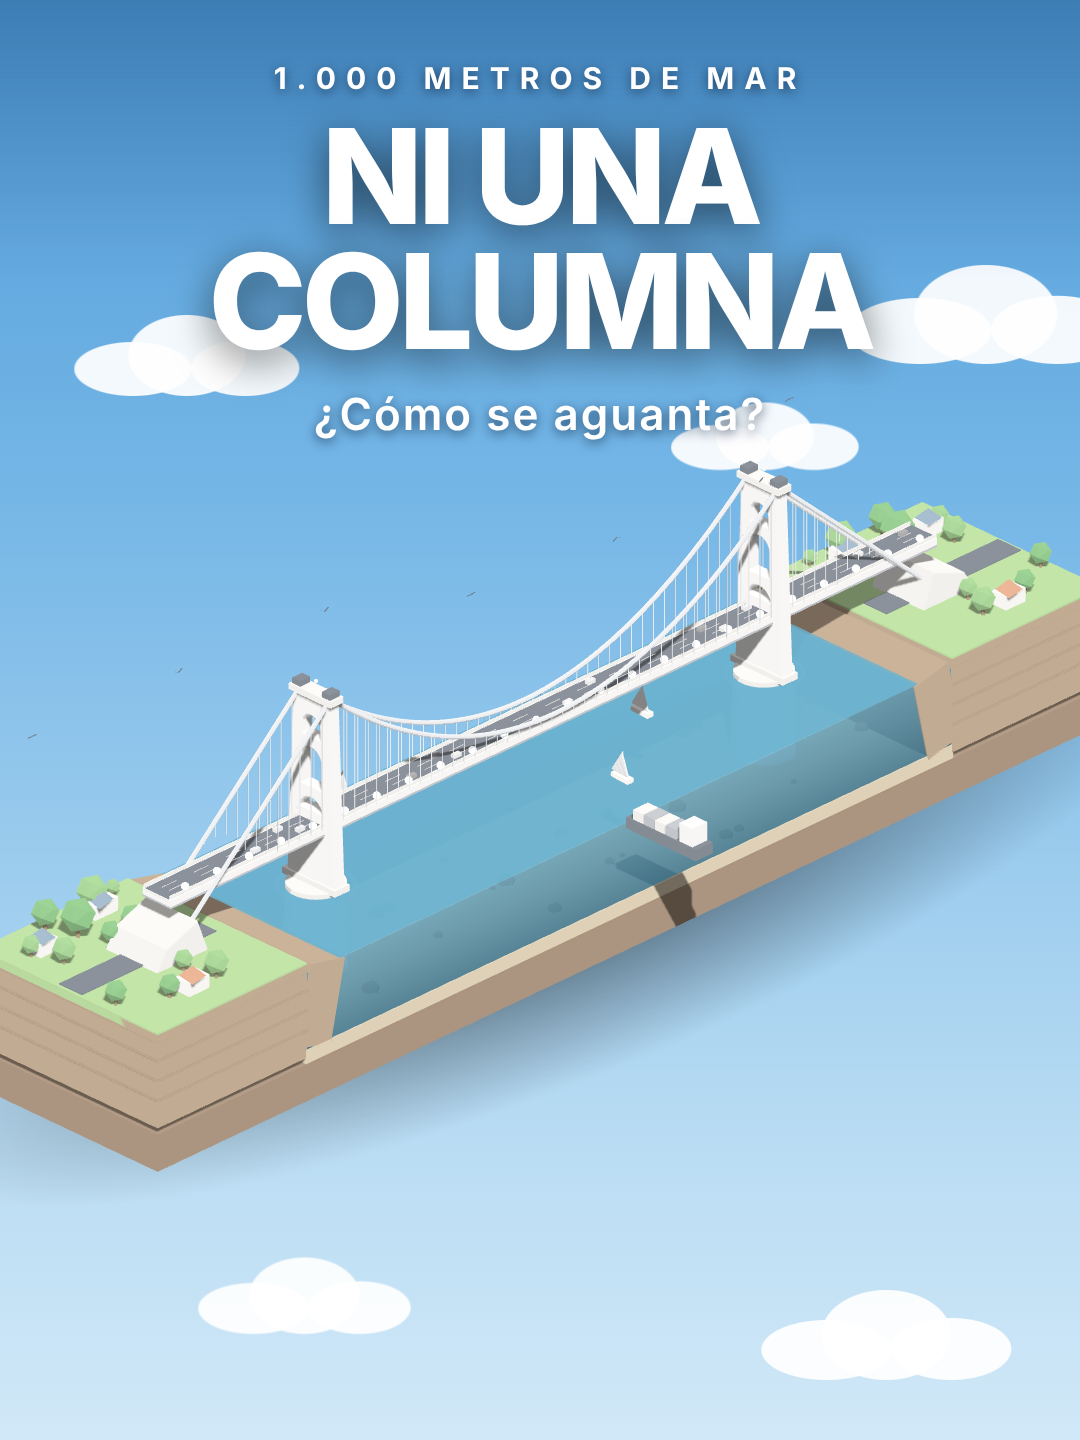
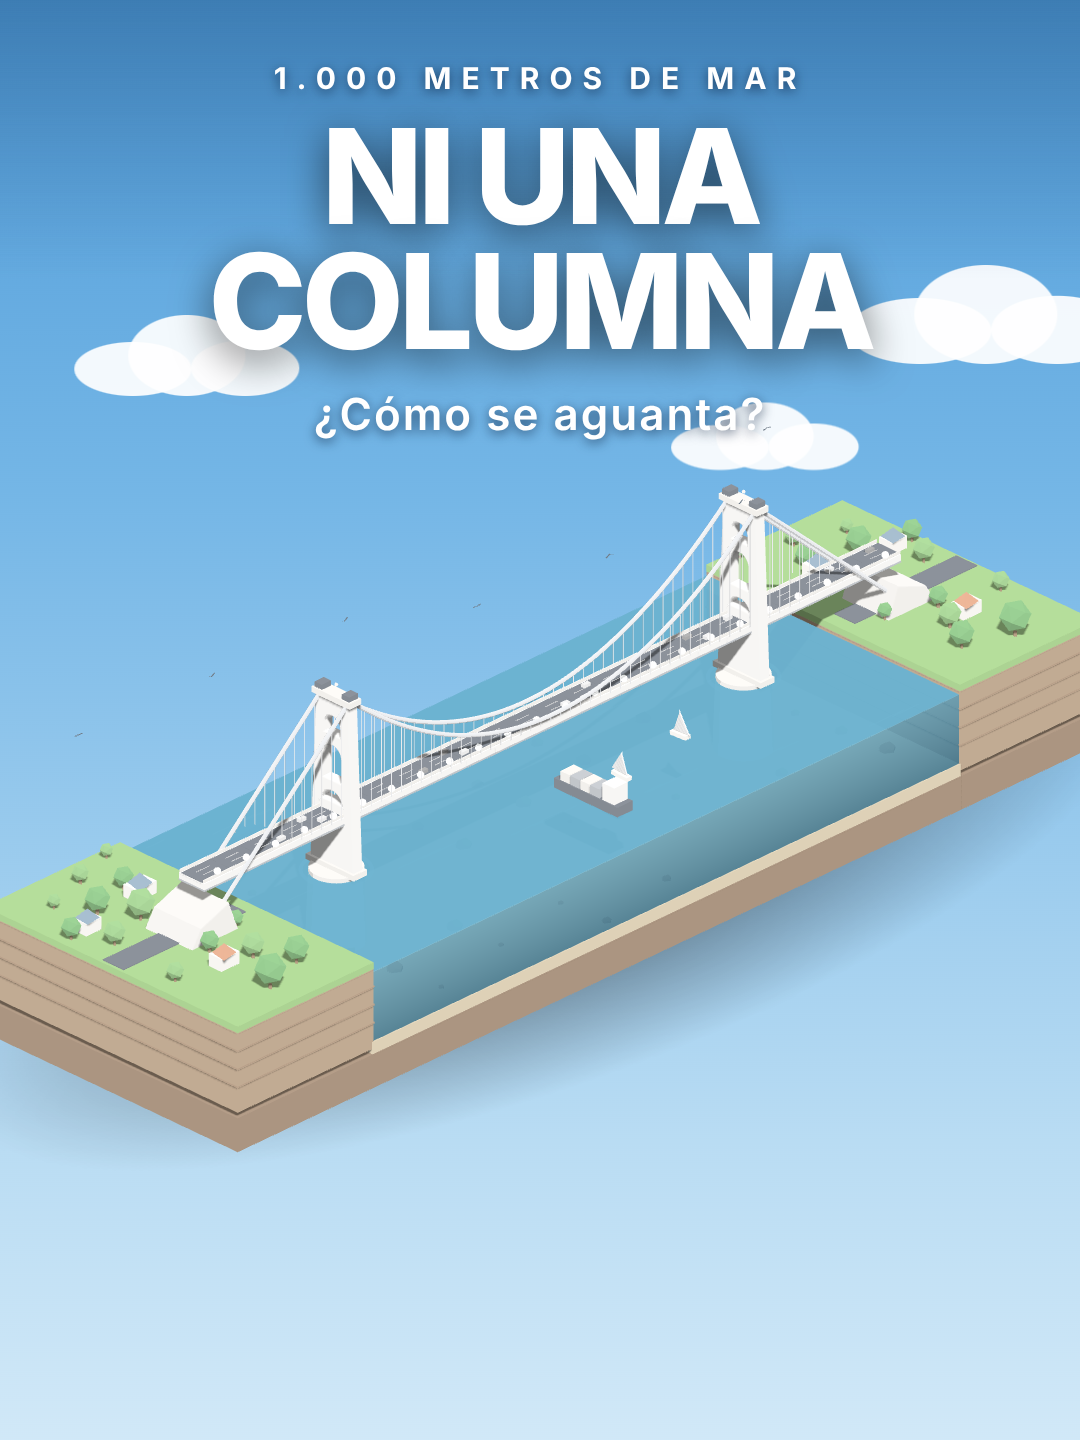
puente v3: arregla césped (z-fighting), barcos dentro del agua en bucle, más agua, dron visible
Claude-Session: https://claude.ai/code/session_01FgZK386kKeQpy1Cb9CVWWu

Changed region(s): [[0.0, 0.3125, 1.0, 0.8125], [0.7028, 0.875, 0.9472, 0.9688], [0.1833, 0.875, 0.3972, 0.9375]]

diff --git a/quiz-video/animado/puente/iso.js b/quiz-video/animado/puente/iso.js
@@ -8,7 +8,7 @@
   document.getElementById('gl').appendChild(renderer.domElement);
   const scene = new THREE.Scene();
   const FR = 900;                                   // mitad de la altura visible (zoom)
-  const cam = new THREE.OrthographicCamera(-FR * W / H, FR * W / H, FR, -FR, -6000, 6000);
+  const cam = new THREE.OrthographicCamera(-FR * W / H, FR * W / H, FR, -FR, 1, 4000);
   scene.add(new THREE.HemisphereLight(0xe6e6e6, 0x4a4a4a, 0.5));
   const sol = new THREE.DirectionalLight(0xffffff, 1.05); sol.position.set(-700, 1300, 900); sol.castShadow = true;
   sol.shadow.mapSize.set(2048, 2048); Object.assign(sol.shadow.camera, { left: -1300, right: 1300, top: 1000, bottom: -1000, near: 10, far: 4000 }); sol.shadow.radius = 2; sol.shadow.bias = -0.0005;
@@ -21,20 +21,19 @@
   const base = new THREE.Group(); scene.add(base);
 
   // ---------------- medidas
-  const SPAN = 900, TX = SPAN / 2, TH = 300, DECK = 96, LEN = 1300, D = 360, PROF = 130, LAND = 300;
+  const SPAN = 900, TX = SPAN / 2, TH = 300, DECK = 96, LEN = 1300, D = 560, PROF = 130, LAND = 300;
   const ANCLA = LEN / 2 + 120;
-  const C = { blanco: 0xf3f1ed, hueso: 0xe7e3dc, gris: 0x8d939b, pizarra: 0x3d434c, arena: 0xbfa77c, roca: 0x8c6a4c, rocaO: 0x6b4f39, hierba: 0x7fb85b, agua: 0x3f9ccc, acento: 0xef5b3b };
+  const C = { blanco: 0xf3f1ed, hueso: 0xe7e3dc, gris: 0x8d939b, pizarra: 0x3d434c, arena: 0xbfa77c, roca: 0x8c6a4c, rocaO: 0x6b4f39, hierba: 0x6cab4c, agua: 0x3f9ccc, acento: 0xef5b3b };
 
   // ---------------- maqueta: bloques de tierra con capas, fondo marino y agua
   for (const s of [-1, 1]) {
     const cx = s * (LEN / 2 + LAND / 2 - 2);
     base.add(caja(LAND, 60, D, M(C.rocaO), cx, -PROF - 50, 0));
-    base.add(caja(LAND, PROF + 20, D, M(C.roca), cx, -PROF / 2 - 10 + 10, 0));
-    base.add(caja(LAND, 14, D, M(C.hierba), cx, 6, 0));
-    for (const y of [-30, -62, -94]) base.add(caja(LAND + 1, 2, D + 1, M(0x7d5c42), cx, y, 0));
+    base.add(caja(LAND, PROF + 11, D, M(C.roca), cx, -PROF / 2 - 4.5, 0));
+    base.add(caja(LAND + 0.6, 12, D + 0.6, M(C.hierba), cx, 7, 0));
+    for (const y of [-30, -62, -94]) base.add(caja(LAND + 3, 2, D + 3, M(0x7d5c42), cx, y, 0));
     base.add(caja(LAND - 30, 2, 46, M(C.pizarra, { roughness: 0.9 }), cx + s * 10, 14, 0));
     // talud hacia el agua
-    const t = S(new THREE.Mesh(new THREE.BoxGeometry(70, PROF, D), M(C.roca))); t.position.set(s * (LEN / 2 - 30), -PROF / 2 + 2, 0); t.rotation.z = s * 0.22; base.add(t);
     // árboles discretos
     for (let k = 0; k < 16; k++) {
       const tr = new THREE.Group(); const h = 30 + (k % 3) * 10;
@@ -142,6 +141,7 @@
     g.add(p1, p2); g.userData = { p1, p2, k }; g.rotation.x = -Math.PI / 2; base.add(g); return g; });
   // ================= ESTADO DE OBRA (0 = sin construir, 1 = terminado) =================
   const ACC = 0x4ea3ff;
+  let DURV = 114.14;
   const st = { t: 0, cim: 1, tor: 1, pil: 0, pas: 0, rueda: 0, ruedaOn: 0, hilo: 1, anc: 1, pen: 1, dov: 1, asf: 1, luz: 0, coches: 0, fza: 0, vien: 0, agua: 1, barcoZ: 260, fan: 0 };
   // cable piloto + dron
   const curva = (z, dy = 0) => new THREE.CatmullRomCurve3(Array.from({ length: 201 }, (_, i) => { const x = -ANCLA + 2 * ANCLA * i / 200; return new THREE.Vector3(x, yC(x) + dy, z); }));
@@ -149,7 +149,7 @@
   const piloto = new THREE.Mesh(pilGeo, new THREE.MeshBasicMaterial({ color: 0xffffff })); base.add(piloto);
   const dron = new THREE.Group(); dron.add(caja(10, 3, 10, M(C.pizarra), 0, 0, 0));
   const rotores = []; for (const [a, b] of [[-8, -8], [8, -8], [-8, 8], [8, 8]]) { const r = new THREE.Mesh(new THREE.CylinderGeometry(5, 5, 0.6, 16), new THREE.MeshBasicMaterial({ color: 0xffffff, transparent: true, opacity: 0.6 })); r.position.set(a, 2.5, b); dron.add(r); rotores.push(r); }
-  base.add(dron);
+  dron.scale.setScalar(3); base.add(dron);
   // pasarela (barandillas siguiendo el cable) y rueda de hilado
   const pasMat = new THREE.MeshBasicMaterial({ color: 0xbfc3c8, transparent: true, opacity: 0 });
   const pasarela = new THREE.Group(); for (const z of [-38, -22, 22, 38]) pasarela.add(new THREE.Mesh(new THREE.TubeGeometry(curva(z, -4), 300, 0.6, 4, false), pasMat)); base.add(pasarela);
@@ -205,8 +205,10 @@
     puntos.forEach((p, k) => { const s = k % 2 ? 1 : -1, z = (k >> 1) % 2 ? 30 : -30; const u = ((t * 0.35 + (k >> 2) / 7) % 1); const x = s * u * ANCLA; p.position.set(x, yC(x) + 1, z); p.visible = st.fza > 0.01; p.material.opacity = st.fza * Math.sin(Math.PI * u); });
     fan.material.opacity = st.fan * 0.35; fan.visible = st.fan > 0.01;
     aguaMat.opacity = aguaOp * st.agua; supMat.opacity = surf * st.agua; olas.visible = st.agua > 0.5;
-    barco.position.z = st.barcoZ;
-    veleros.forEach(g => { const { v, k } = g.userData; g.position.set(g.position.x, -3 + Math.sin(t * 2 + k) * 1.2, ((t * 14 * v + k * 120) % (D - 50)) - (D - 50) / 2); g.rotation.z = Math.sin(t * 1.6 + k) * 0.06; g.visible = st.agua > 0.5; });
+    const ZR = D / 2 - 40, borde = (z) => cl((ZR - Math.abs(z)) / 45);
+    const fade = (g, a) => { g.traverse(m => { if (m.material) { m.material.transparent = true; m.material.opacity = a; } }); g.visible = a > 0.01 && (g === barco || st.agua > 0.5); };
+    { const z = ZR - ((t * (4 * ZR / DURV) + ZR - 14 * (4 * ZR / DURV)) % (2 * ZR) + 2 * ZR) % (2 * ZR); barco.position.z = z; fade(barco, borde(z)); }
+    veleros.forEach(g => { const { k } = g.userData; const vz = (k + 2) * 2 * ZR / DURV; const z = ((t * vz + k * 170) % (2 * ZR)) - ZR; g.position.set(g.position.x, -3 + Math.sin(t * 2 + k) * 1.2, k % 2 ? -z : z); g.rotation.y = k % 2 ? -Math.PI / 2 : Math.PI / 2; g.rotation.z = Math.sin(t * 1.6 + k) * 0.06; fade(g, borde(z)); });
     pajaros.forEach(g => { const { p1, p2, k } = g.userData; const u = ((t * 0.045 + k * 0.137) % 1); g.position.set(-900 + u * 1800, 360 + (k % 3) * 22 + Math.sin(t + k) * 6, -120 + (k * 47) % 240); const f = Math.sin(t * 9 + k) * 0.6; p1.rotation.y = f; p2.rotation.y = -f; });
     sol.intensity = 1.05 - 0.3 * st.luz; hemi.intensity = 0.5 - 0.12 * st.luz;
   }
@@ -220,6 +222,6 @@
   function pon(px, py, pz, tx, ty, tz, zoom) {
     cam.position.set(px, py, pz); cam.lookAt(tx, ty, tz); cam.zoom = zoom; cam.updateProjectionMatrix();
   }
-  window.ESC = { st, aplica, resalta, hueR, renderer, scene, cam, base, agua, aguaMat, sup, olas, cimientos, torres, huecos, dovelas, cables, pendolas, anclajes, barco, proyecta, pon,
+  window.ESC = { setDur(d) { DURV = d; }, st, aplica, resalta, hueR, renderer, scene, cam, base, agua, aguaMat, sup, olas, cimientos, torres, huecos, dovelas, cables, pendolas, anclajes, barco, proyecta, pon,
     TX, TH, DECK, PROF, ANCLA, LEN, D, yC, C, render() { renderer.render(scene, cam); } };
 })();

diff --git a/quiz-video/animado/puente/index.html b/quiz-video/animado/puente/index.html
@@ -33,7 +33,7 @@ html,body{width:1080px;height:1920px;overflow:hidden;background:#15181d}
 </style></head>
 <body>
 <div id="root" data-composition-id="main" data-start="0" data-duration="114.141" data-width="1080" data-height="1920">
-  <div id="nubes"><div class="nube" id="nb0" style="left:60px;top:560px;transform:scale(0.9)"><i></i><i></i><i></i></div><div class="nube" id="nb1" style="left:640px;top:640px;transform:scale(0.75)"><i></i><i></i><i></i></div><div class="nube" id="nb2" style="left:860px;top:520px;transform:scale(1.1)"><i></i><i></i><i></i></div><div class="nube" id="nb3" style="left:180px;top:1500px;transform:scale(0.85)"><i></i><i></i><i></i></div><div class="nube" id="nb4" style="left:760px;top:1540px;transform:scale(1.0)"><i></i><i></i><i></i></div></div>
+  <div id="nubes"><div class="nube" id="nb0" style="left:60px;top:560px;transform:scale(0.9)"><i></i><i></i><i></i></div><div class="nube" id="nb1" style="left:640px;top:640px;transform:scale(0.75)"><i></i><i></i><i></i></div><div class="nube" id="nb2" style="left:860px;top:520px;transform:scale(1.1)"><i></i><i></i><i></i></div></div>
   <div id="gl"></div>
   <div id="topsombra"></div><div id="grano"></div>
   <svg id="lineas" width="1080" height="1920"></svg>
@@ -44,11 +44,11 @@ html,body{width:1080px;height:1920px;overflow:hidden;background:#15181d}
 </div>
 <script src="iso.js"></script>
 <script>
-const E = window.ESC;
+const E = window.ESC; E.setDur(114.141);
 const R = { cim: E.resalta(E.cimientos), arc: E.hueR, anc: E.resalta(E.anclajes), pen: E.resalta(E.pendolas), cab: E.resalta(E.cables) };
 Object.values(R).forEach(r => r.set(0));
 const HL = { cim:0, arc:0, anc:0, pen:0, cab:0 };
-const C = { tx:0, ty:90, tz:0, dx:-1, dy:0.76, dz:1, z:0.66 };
+const C = { tx:0, ty:90, tz:0, dx:-1, dy:0.76, dz:1, z:0.6 };
 const LABS = [], LV = {};
 const SVGL = document.getElementById("lineas");
 function frame() {
@@ -69,26 +69,24 @@ function frame() {
 const tl = gsap.timeline({ paused: true, onUpdate: frame });
 tl.to(E.st, {t:114.14, duration:114.14, ease:"none"}, 0);
 Object.assign(E.st, {luz:1, coches:1});
-tl.to(C, {tx:0, ty:80, tz:0, dx:-1, dy:0.72, dz:1.05, z:0.72, duration:7.89, ease:"sine.inOut"}, 0.00);
+tl.to(C, {tx:0, ty:80, tz:0, dx:-1, dy:0.72, dz:1.05, z:0.66, duration:7.89, ease:"sine.inOut"}, 0.00);
 tl.set("#d1", {opacity:0}, 0); tl.fromTo("#d1", {opacity:0, y:30, letterSpacing:"8px"}, {opacity:1, y:0, letterSpacing:"0px", duration:0.6, ease:"power3.out", immediateRender:false}, 0.00); tl.to("#d1", {opacity:0, y:-20, duration:0.3}, 5.76);
 tl.set("#d1", {opacity:1, y:0, letterSpacing:"0px"}, 0);
 tl.set("#d2", {opacity:0}, 0); tl.fromTo("#d2", {opacity:0, y:30, letterSpacing:"8px"}, {opacity:1, y:0, letterSpacing:"0px", duration:0.6, ease:"power3.out", immediateRender:false}, 6.83); tl.to("#d2", {opacity:0, y:-20, duration:0.3}, 8.09);
 tl.to(E.st, {luz:0, coches:0, duration:0.60, ease:"power2.inOut"}, 7.93);
 tl.to(C, {tx:0, ty:-40, tz:60, dx:-0.55, dy:0.42, dz:1, z:1.35, duration:1.00, ease:"power2.inOut"}, 8.03);
 tl.to(E.st, {agua:0.45, duration:0.60, ease:"power2.inOut"}, 8.43);
-tl.to(E.st, {barcoZ:-260, duration:3.50, ease:"none"}, 12.01);
 LABS.push({i:3, p:[0,-120,120], lx:70, ly:1250});
 tl.fromTo(LV, {l3:0}, {l3:1, duration:0.45, ease:"power2.out", immediateRender:false}, 8.87); tl.to(LV, {l3:0, duration:0.3}, 9.96);
 LV.l3 = 0;
 LABS.push({i:4, p:[-260,-6,140], lx:70, ly:1250});
 tl.fromTo(LV, {l4:0}, {l4:1, duration:0.45, ease:"power2.out", immediateRender:false}, 9.96); tl.to(LV, {l4:0, duration:0.3}, 12.91);
 LV.l4 = 0;
-LABS.push({i:5, p:[0,30,120], lx:560, ly:1300});
+LABS.push({i:5, p:[0,20,0], lx:560, ly:1300});
 tl.fromTo(LV, {l5:0}, {l5:1, duration:0.45, ease:"power2.out", immediateRender:false}, 12.91); tl.to(LV, {l5:0, duration:0.3}, 14.32);
 LV.l5 = 0;
 tl.to(E.st, {agua:1, duration:0.50, ease:"power2.inOut"}, 14.12);
 tl.to(C, {tx:0, ty:40, tz:0, dx:-1, dy:0.6, dz:1.1, z:0.95, duration:1.00, ease:"power2.inOut"}, 14.16);
-tl.set(E.st, {barcoZ:260}, 14.56);
 tl.to(E.st, {fan:1, duration:0.50, ease:"power2.inOut"}, 14.34);
 tl.to(E.st, {fan:0, duration:0.40, ease:"power2.inOut"}, 17.25);
 tl.set("#tacha", {opacity:0}, 0); tl.fromTo("#tacha", {opacity:0, scale:2}, {opacity:1, scale:1, duration:0.3, ease:"back.out(2)", immediateRender:false}, 16.75); tl.to("#tacha", {opacity:0, duration:0.3}, 17.55);
@@ -178,7 +176,7 @@ tl.to("#viento", {opacity:1, duration:0.4}, 99.81); tl.fromTo("#viento i", {x:-7
 LABS.push({i:18, p:[0,96,30], lx:560, ly:1300});
 tl.fromTo(LV, {l18:0}, {l18:1, duration:0.45, ease:"power2.out", immediateRender:false}, 102.00); tl.to(LV, {l18:0, duration:0.3}, 106.30);
 LV.l18 = 0;
-tl.to(C, {tx:0, ty:90, tz:0, dx:-1, dy:0.76, dz:1, z:0.66, duration:7.60, ease:"sine.inOut"}, 106.04);
+tl.to(C, {tx:0, ty:90, tz:0, dx:-1, dy:0.76, dz:1, z:0.6, duration:7.60, ease:"sine.inOut"}, 106.04);
 tl.set("#d19", {opacity:0}, 0); tl.fromTo("#d19", {opacity:0, y:30, letterSpacing:"8px"}, {opacity:1, y:0, letterSpacing:"0px", duration:0.6, ease:"power3.out", immediateRender:false}, 111.17); tl.to("#d19", {opacity:0, y:-20, duration:0.3}, 112.94);
 tl.fromTo("#d1", {opacity:0, y:30}, {opacity:1, y:0, duration:0.6, ease:"power3.out", immediateRender:false}, 113.14);
 tl.set("#pasos", {opacity:0, y:40}, 0); tl.to("#pasos", {opacity:1, y:0, duration:0.6, ease:"power3.out"}, 21.54); tl.to("#pasos", {opacity:0, y:40, duration:0.5}, 100.47);
@@ -206,8 +204,6 @@ tl.to("#pfill", {width:900, duration:0.6, ease:"power2.inOut"}, 94.41);
 tl.fromTo("#nb0", {x:0}, {x:70, duration:57.07, ease:"sine.inOut", yoyo:true, repeat:1, immediateRender:false}, 0);
 tl.fromTo("#nb1", {x:0}, {x:-70, duration:57.07, ease:"sine.inOut", yoyo:true, repeat:1, immediateRender:false}, 0);
 tl.fromTo("#nb2", {x:0}, {x:70, duration:57.07, ease:"sine.inOut", yoyo:true, repeat:1, immediateRender:false}, 0);
-tl.fromTo("#nb3", {x:0}, {x:-70, duration:57.07, ease:"sine.inOut", yoyo:true, repeat:1, immediateRender:false}, 0);
-tl.fromTo("#nb4", {x:0}, {x:70, duration:57.07, ease:"sine.inOut", yoyo:true, repeat:1, immediateRender:false}, 0);
 tl.to("#w0_0 .hl", {opacity:1, duration:0.06}, 0.50);
 tl.to("#w0_0", {color:"#ffffff", duration:0.06}, 0.50);
 tl.to("#w0_1", {color:"#ffffff", duration:0.06}, 0.73);

diff --git a/quiz-video/animado/puente/gen.py b/quiz-video/animado/puente/gen.py
@@ -62,7 +62,7 @@ def PL(word):
 J(f'tl.to(E.st, {{t:{DUR:.2f}, duration:{DUR:.2f}, ease:"none"}}, 0);')
 J('Object.assign(E.st, {luz:1, coches:1});')
 # 1) gancho: el puente terminado, de noche con tráfico; leve deriva de cámara
-cam(0.0, (0, 80, 0), (-1, 0.72, 1.05), 0.72, FE(1), "sine.inOut")
+cam(0.0, (0, 80, 0), (-1, 0.72, 1.05), 0.66, FE(1), "sine.inOut")
 d1 = dato('<b>1.000 m</b><small>NI UNA COLUMNA EN EL AGUA</small>', 0.0, P("coches") - 0.2, top=1440)
 J('tl.set("#d1", {opacity:1, y:0, letterSpacing:"0px"}, 0);')
 dato('<b>¿Cómo se aguanta?</b>', P("aguanta") - 0.6, FE(1) + 0.2, top=1460)
@@ -70,14 +70,12 @@ dato('<b>¿Cómo se aguanta?</b>', P("aguanta") - 0.6, FE(1) + 0.2, top=1460)
 st(F(2) - 0.3, 0.6, luz=0, coches=0)
 cam(F(2) - 0.2, (0, -40, 60), (-0.55, 0.42, 1), 1.35, 1.0)
 st(F(2) + 0.2, 0.6, agua=0.45)
-st(P("barcos") - 1.2, FE(2) - P("barcos") + 2.6, "none", barcoZ=-260)
 etiqueta((0, -PROF + 10, 120), 70, 1250, "PROFUNDIDAD", "Mar profundo", "", P("profundo") - 0.2, P("corrientes") - 0.1)
 etiqueta((-260, -6, 140), 70, 1250, "CORRIENTES", "Fuertes", "", P("corrientes") - 0.1, P("barcos") - 0.3)
-etiqueta((0, 30, 120), 560, 1300, "PASO LIBRE", "Barcos enormes", "por debajo del puente", P("barcos") - 0.3, FE(2) + 0.2)
+etiqueta((0, 20, 0), 560, 1300, "PASO LIBRE", "Barcos enormes", "por debajo del puente", P("barcos") - 0.3, FE(2) + 0.2)
 st(FE(2), 0.5, agua=1)
 # 3) un pilar en medio: no. Lo cuelgan
 cam(F(3) - 0.1, (0, 40, 0), (-1, 0.6, 1.1), 0.95, 1.0)
-J(f'tl.set(E.st, {{barcoZ:260}}, {F(3) + 0.3:.2f});')
 st(P("pilar") - 0.1, 0.5, fan=1); st(P("estorbo") + 0.2, 0.4, fan=0)
 FXL.append('<div class="tacha" id="tacha">✕</div>')
 J(f'tl.set("#tacha", {{opacity:0}}, 0); tl.fromTo("#tacha", {{opacity:0, scale:2}}, {{opacity:1, scale:1, duration:0.3, ease:"back.out(2)", immediateRender:false}}, {P("estorbo") - 0.3:.2f}); tl.to("#tacha", {{opacity:0, duration:0.3}}, {P("estorbo") + 0.5:.2f});')
@@ -173,7 +171,7 @@ J(f'tl.to("#viento", {{opacity:1, duration:0.4}}, {F(16):.2f}); tl.fromTo("#vien
 fx("whoosh", F(16))
 etiqueta((0, DECK, 30), 560, 1300, "FLEXIBLE", "Se mueve varios metros", "si fuera rígido, se rompería", PL("metros") - 0.6, FE(16) + 0.2)
 # 17) cierre: vuelve exactamente al plano del principio (bucle)
-cam(F(17) - 0.2, (0, 90, 0), (-1, 0.76, 1), 0.66, DUR - F(17) - 0.3, "sine.inOut")
+cam(F(17) - 0.2, (0, 90, 0), (-1, 0.76, 1), 0.6, DUR - F(17) - 0.3, "sine.inOut")
 dato('<b>Colgado de dos cables</b>', P("cables", 2) - 0.6, DUR - 1.2, top=1440)
 J(f'tl.fromTo("#d1", {{opacity:0, y:30}}, {{opacity:1, y:0, duration:0.6, ease:"power3.out", immediateRender:false}}, {DUR - 1.0:.2f});')
 
@@ -188,7 +186,7 @@ for k, (n, t) in enumerate(PASOS):
     if k + 1 < len(PASOS):
         J(f'tl.to("#paso{k} .pdot", {{scale:1, duration:0.3}}, {PASOS[k + 1][1]:.2f}); tl.to("#paso{k} em", {{color:"rgba(255,255,255,0.75)", duration:0.3}}, {PASOS[k + 1][1]:.2f});')
 # nubes que cruzan el cielo (bucle exacto: vuelven a su sitio al final)
-NUB = [(60, 560, 0.9), (640, 640, 0.75), (860, 520, 1.1), (180, 1500, 0.85), (760, 1540, 1.0)]
+NUB = [(60, 560, 0.9), (640, 640, 0.75), (860, 520, 1.1)]
 FXN = "".join(f'<div class="nube" id="nb{k}" style="left:{x}px;top:{y}px;transform:scale({sc})"><i></i><i></i><i></i></div>' for k, (x, y, sc) in enumerate(NUB))
 for k in range(len(NUB)):
     J(f'tl.fromTo("#nb{k}", {{x:0}}, {{x:{(-1) ** k * 70}, duration:{DUR / 2:.2f}, ease:"sine.inOut", yoyo:true, repeat:1, immediateRender:false}}, 0);')
@@ -242,11 +240,11 @@ html,body{{width:1080px;height:1920px;overflow:hidden;background:#15181d}}
 </div>
 <script src="iso.js"></script>
 <script>
-const E = window.ESC;
+const E = window.ESC; E.setDur({DUR});
 const R = {{ cim: E.resalta(E.cimientos), arc: E.hueR, anc: E.resalta(E.anclajes), pen: E.resalta(E.pendolas), cab: E.resalta(E.cables) }};
 Object.values(R).forEach(r => r.set(0));
 const HL = {{ cim:0, arc:0, anc:0, pen:0, cab:0 }};
-const C = {{ tx:0, ty:90, tz:0, dx:-1, dy:0.76, dz:1, z:0.66 }};
+const C = {{ tx:0, ty:90, tz:0, dx:-1, dy:0.76, dz:1, z:0.6 }};
 const LABS = [], LV = {{}};
 const SVGL = document.getElementById("lineas");
 function frame() {{

diff --git a/quiz-video/animado/INSTRUCCIONES.md b/quiz-video/animado/INSTRUCCIONES.md
@@ -217,3 +217,8 @@ Haz SIEMPRE `git pull` antes de empezar y `git commit` + `git push` al acabar.
   voz + música suave. El narrador empieza NEUTRO desde la primera frase: etiqueta [calm] al principio, sin [curious],
   y frases iniciales unidas (no telegráficas). Más visual e interactivo: cielo azul con nubes, césped, árboles, casas,
   veleros y pájaros moviéndose, barra de PASOS de la obra que avanza, contadores animados y cámara que «respira».
+- (09-11-2026, puente v3) Errores que vio el usuario: CÉSPED «bugeado» = z-fighting (caras coplanarias de dos cajas:
+  nunca dos cajas con la misma cara; cámara ortográfica con near/far ajustados 1–4000, no ±6000). BARCOS que salen del
+  agua y vuelven de golpe: los objetos que se mueven deben ir en BUCLE DENTRO del agua y desvanecerse en los bordes
+  (nunca tl.set que teletransporte). Nubes solo arriba (abajo parece que la maqueta flota). Revisar SIEMPRE una hoja de
+  fotogramas cada 4 s y recortes ampliados antes de entregar.
